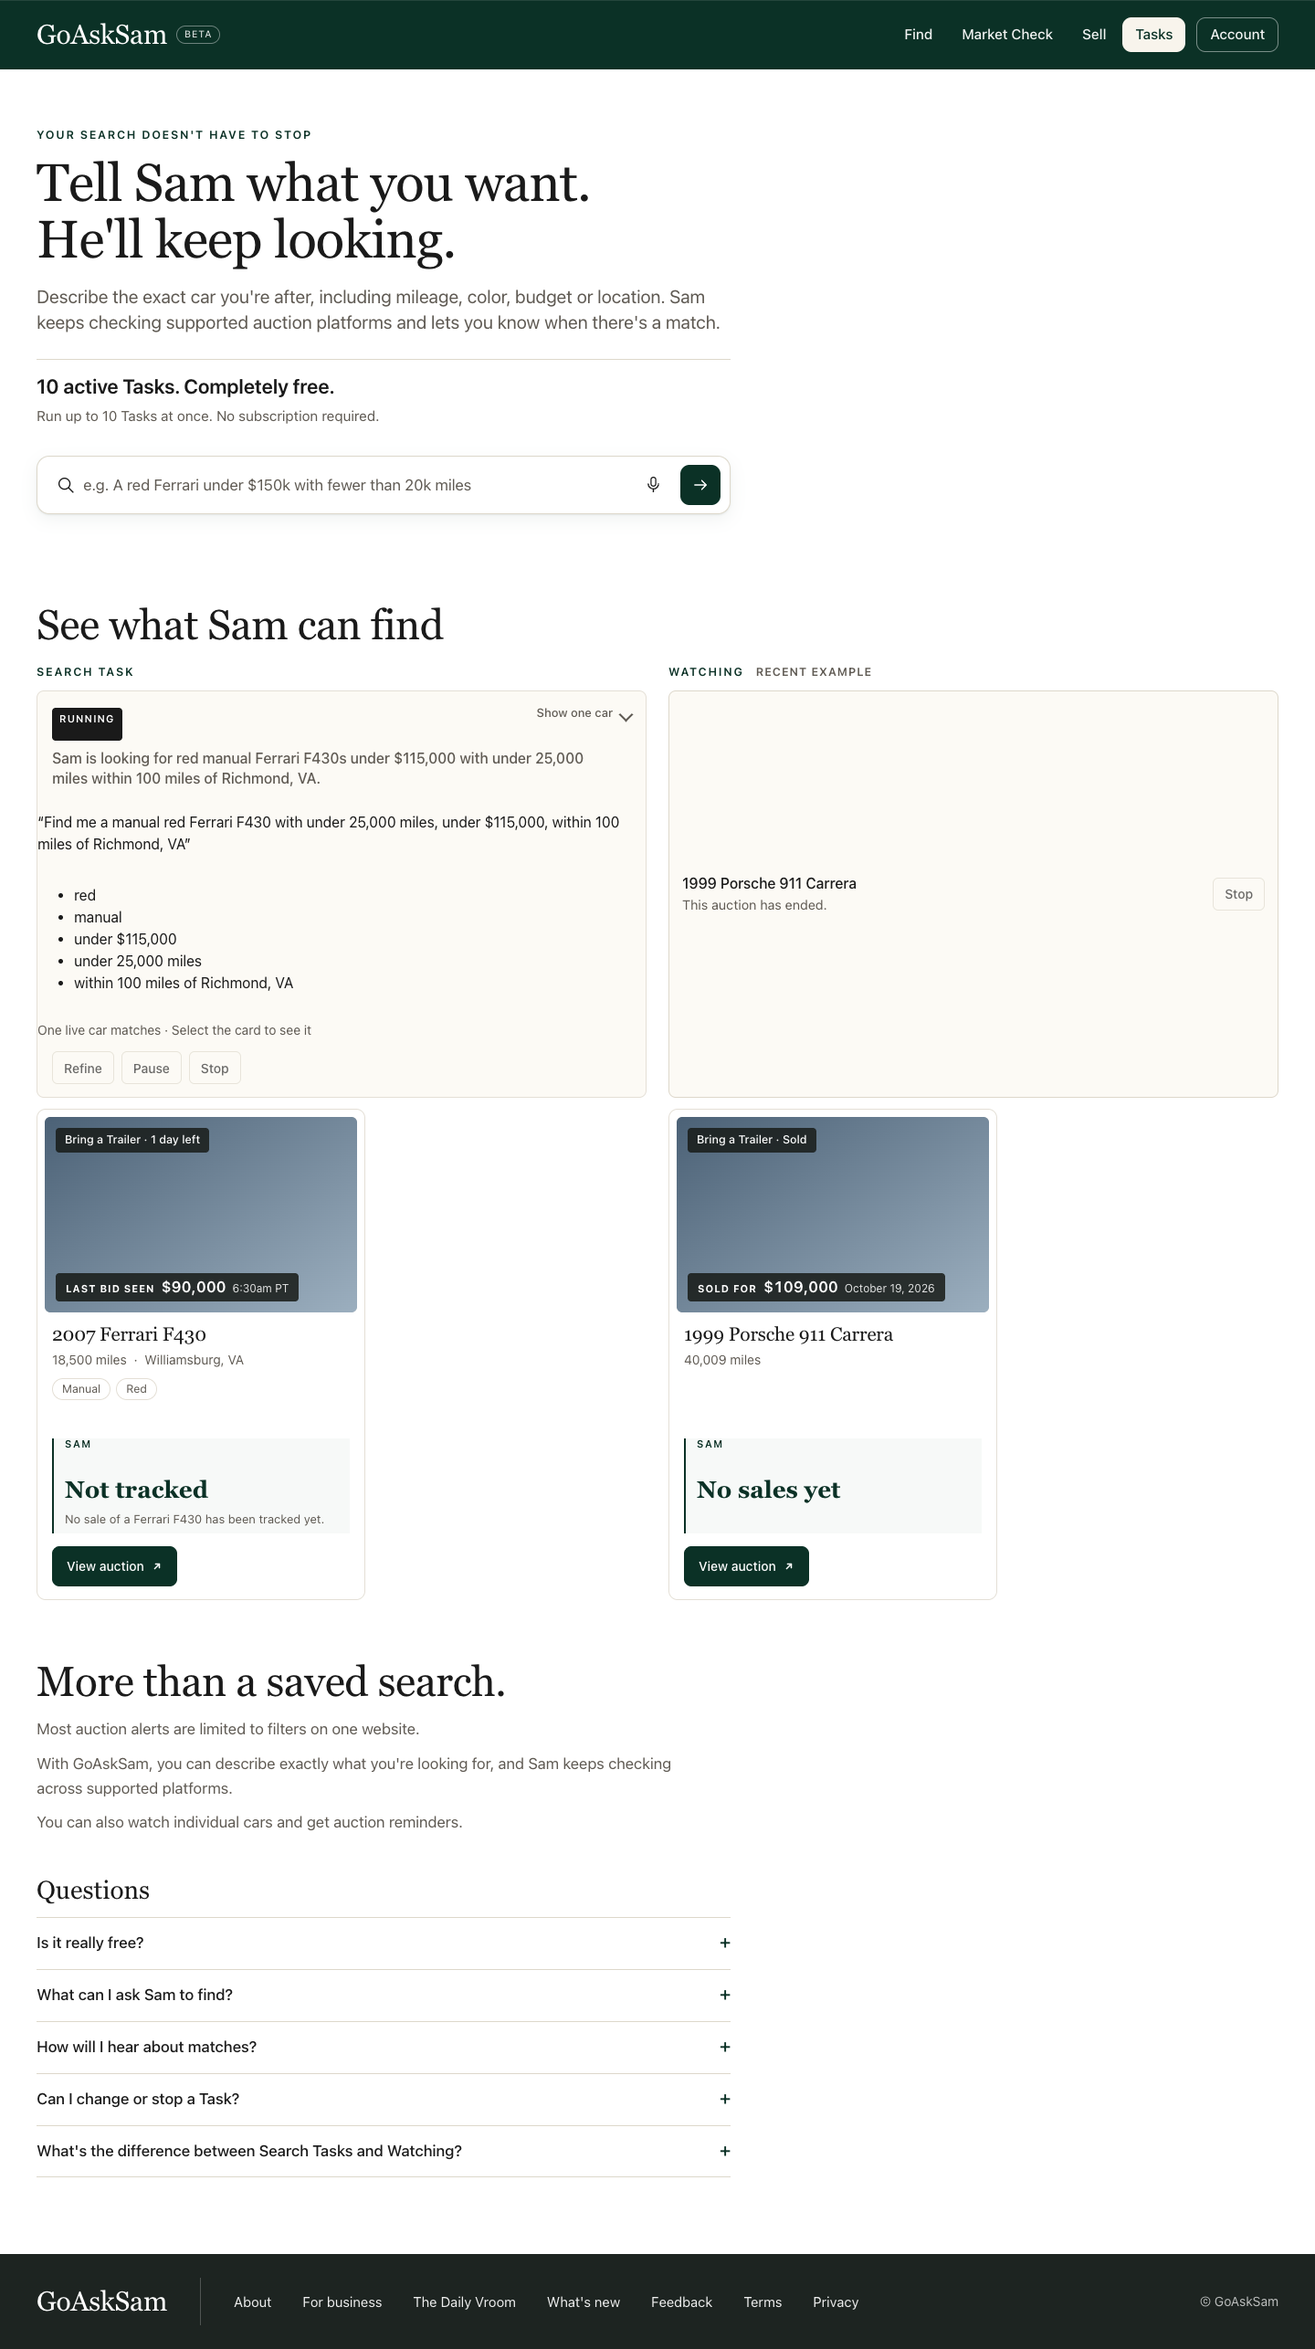
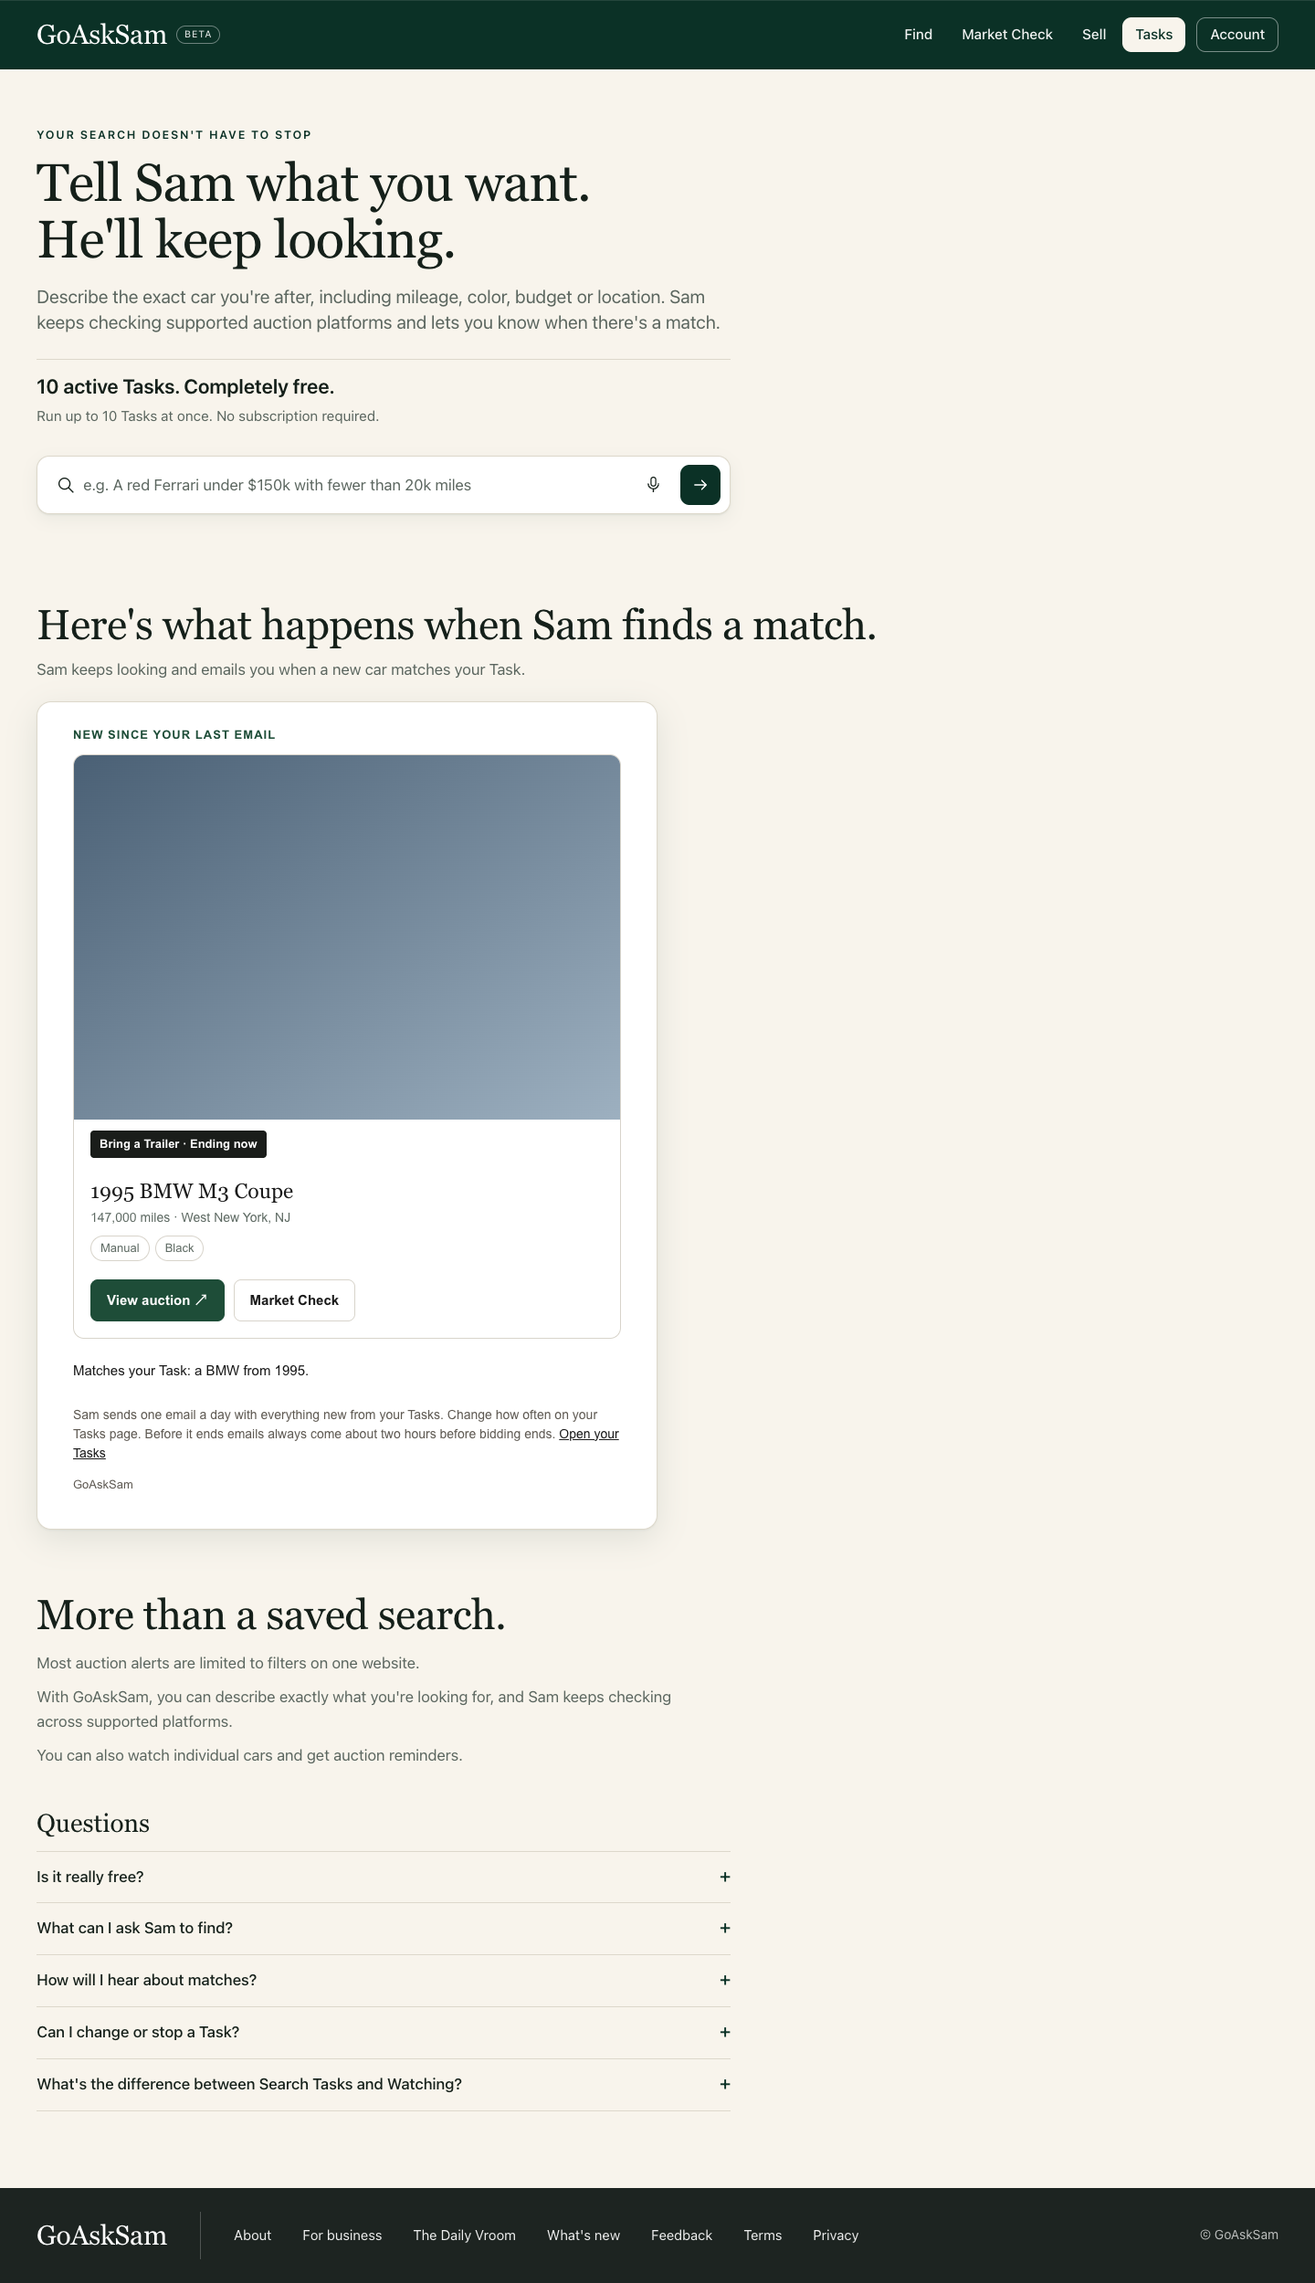
Email preview reads Lane B's tasksEmailExample shape (composeDigest around the block's cardHtml and reason line); Find row filled with Lane B's fallback sales tagged Sold; crewLocalRun runs Lane B's real readers through the real handler; checks and screenshots

diff --git a/lib/preview/tasksPreview.js b/lib/preview/tasksPreview.js
@@ -32,20 +32,29 @@ export const COPY = {
 export const freeLines = max => ({ line: `${max} active ${max === 1 ? "Task" : "Tasks"}. Completely free.`, sub: `Run up to ${max} ${max === 1 ? "Task" : "Tasks"} at once. No subscription required.` });
 export const limitWord = max => freeTasksWords(max).replace(/ active Tasks?$/, "");
 
+// "HERE'S WHAT HAPPENS WHEN SAM FINDS A MATCH" (Sam, Nov 8 2026, final): ONE email, the real Task match email, from a REAL stored match update. THE ENGINE'S SHAPE (Lane B, lib/live/tasksDemo.js tasksEmailExample): { source: "preferred"|"latest", update: { id, at }, subject, why, block } where block is exactly what
+// lib/tasks/tasks.js taskEmailBlocks hands the template for that car (cardHtml, cardText, cardHead, bid ...) plus card, and why is the email's own reason line ("Matches your Task: a BMW from 1995."). The whole email is made by the REAL lib/tasks/digest.js composeDigest (its "New since your last email" heading and its footer)
+// around the Task's section, and the car card inside is the block's own cardHtml from lib/tasks/emailCards.js. When the engine also sends the Task's criteria (task: { summary, filters }) the section is the real lib/tasks/tasks.js taskEmailBody; until it does, the section is the block's card followed by the engine's own reason line, printed as sent.
+// The page types nothing of the email and computes nothing; hidden until the field exists and is complete. Watching is not featured here (it stays in the FAQ).
 const VALUATION = /\b(worth|valuation|valued|estimate[ds]?|appraisal|appraised|undervalued|overvalued|bargain|steal|cheap)\b/i;
 const str = x => typeof x === "string" && x.trim().length > 0;
 export function emailExampleOf(field) {
   const o = field && typeof field === "object" ? field : null; if (!o) return null;
-  const t = o.task && typeof o.task === "object" ? o.task : null; if (!t || !str(t.id) || !str(t.summary) || VALUATION.test(t.summary) || !t.filters || typeof t.filters !== "object") return null;
-  const blocks = Array.isArray(o.blocks) ? o.blocks : []; if (!blocks.length || blocks.length > 3) return null;
-  if (!blocks.every(b => b && typeof b === "object" && str(b.cardHtml) && str(b.cardText) && b.card && typeof b.card === "object" && !VALUATION.test(b.cardText))) return null;
-  return { task: t, blocks, every: str(o.every) ? o.every : "daily" };
+  const b = o.block && typeof o.block === "object" ? o.block : null; if (!b || !str(b.cardHtml) || !str(b.cardText) || VALUATION.test(b.cardText)) return null;
+  if (!str(o.why) || VALUATION.test(o.why)) return null;
+  const t = o.task && typeof o.task === "object" && str(o.task.summary) && !VALUATION.test(o.task.summary) && o.task.filters && typeof o.task.filters === "object" ? o.task : null;
+  return { block: b, why: o.why, subject: str(o.subject) ? o.subject : null, task: t, every: str(o.every) ? o.every : "daily", source: o.source === "latest" ? "latest" : "preferred" };
 }
-// the real email: the Task's section from taskEmailBody, the whole email from composeDigest (a later email: catchUp false, so the heading is "New since your last email")
+// the Task's section of the email: the real taskEmailBody when the engine sent the Task's criteria, else the block's own card and reason line
+export function emailSectionOf(ex) {
+  if (ex.task) return taskEmailBody({ id: "example", ...ex.task }, [ex.block], { section: true });
+  const esc2 = x => String(x).replace(/[&<>"]/g, c => ({ "&": "&amp;", "<": "&lt;", ">": "&gt;", '"': "&quot;" }[c]));
+  return { text: ex.block.cardText + "\n" + ex.why, html: (ex.block.cardHead || "") + ex.block.cardHtml + `<p class="em-why">${esc2(ex.why)}</p>` };
+}
+// the real email: the whole email from composeDigest (a later email: catchUp false, so the heading is "New since your last email")
 export function renderTaskEmail(ex) {
-  const section = taskEmailBody(ex.task, ex.blocks, { section: true }), cars = ex.blocks.length;
-  const mail = composeDigest([{ subject: null, text: section.text, html: section.html, cars, catchUp: false }], { every: ex.every, first: false, stopAll: null });
-  return mail;
+  const section = emailSectionOf(ex);
+  return composeDigest([{ subject: ex.subject, text: section.text, html: section.html, cars: 1, catchUp: false }], { every: ex.every, first: false, stopAll: null });
 }
 export function taskEmailSectionHtml(field) {
   const ex = emailExampleOf(field); if (!ex) return "";
@@ -59,7 +68,7 @@ export const TASKS_CSS = `
 .tk-top .sb{margin-top:20px}
 .em{padding-top:56px;padding-bottom:24px}.em h2{margin:0 0 10px}.em-line{margin:0 0 22px;color:var(--sec);font:400 17px/1.55 var(--sans);max-width:62ch}
 .em-frame{max-width:680px;background:#fff;border:1px solid var(--line);border-radius:16px;box-shadow:0 10px 34px rgba(11,49,38,.10),0 1px 2px rgba(11,49,38,.06);padding:26px 28px;overflow:hidden}
-.em-body{max-width:600px;margin:0 auto;overflow-wrap:anywhere}.em-body img{max-width:100%;height:auto}.em-body table{max-width:100%}
+.em-why{margin:6px 0 0;font:400 15px/1.5 Arial,sans-serif;color:#1A1A1A}.em-body{max-width:600px;margin:0 auto;overflow-wrap:anywhere}.em-body img{max-width:100%;width:100%;max-height:260px;height:auto;object-fit:cover}.em-body table{max-width:100%}
 @media (max-width:640px){.em{padding-top:36px}.em-frame{padding:16px 14px;border-radius:14px}}
 .tk-not{padding-top:44px;padding-bottom:36px}.tk-not h2{margin:0 0 14px}.tk-not p{margin:0 0 10px;color:var(--sec);font:400 17px/1.6 var(--sans);max-width:66ch}.tk-not p:last-child{margin-bottom:0}
 .tk-faq{padding-top:8px;padding-bottom:84px}.tk-faq>*{max-width:760px}.tk-faq h2{margin:0 0 14px}

diff --git a/lib/preview/previewPages.js b/lib/preview/previewPages.js
@@ -229,17 +229,19 @@ export function engineCardOf(item, kind, { now = NaN, allowData = false } = {}) 
   if (kind === "live") return Number.isFinite(Date.parse(c.end_time)) && Date.parse(c.end_time) > now && !c.sold ? c : null;
   const s = c.sold; return s && typeof s === "object" && fxStr(s.price) && fxStr(s.when) && !BAD_WORDS.test(s.price + " " + s.when) ? c : null;
 }
-// THE FIND LANDING ROW (Sam, Nov 8 2026, final): "A few cars currently at auction". Only LIVE cars: a completed sale is not at auction, so the engine's fallback sales are not drawn here (with no live car the section is absent). Each example is the real Find card with the rest of it hidden (CSS): the real
-// photo, the car's own title and the platform tag, and the Sold before label when the engine's card carries one; no bid badge, no SAM block, no range, no spec chips, no See the sales. The whole card is one link to that car's Find result: the engine's findUrl, else the plain Find search for the card's own title.
+// THE FIND LANDING ROW (Sam, Nov 8 2026, final): "A few cars currently at auction". Each example is the real Find card with the rest of it hidden (CSS): the real photo, the car's own title and the platform tag, and the Sold before label when the engine's card carries one; no bid badge, no SAM block, no range, no spec chips,
+// no See the sales. The whole card is one link to that car's Find result: the engine's findUrl, else the plain Find search for the card's own title. THE ROW NEVER GOES EMPTY (Sam: a blank row is worse than a sold car): the live cars first, then, when fewer than three qualify, the engine's fallback sales (Lane B, the same card ended, card.sold = { price, when }) up to three; a sale's tag reads "Sold".
 export function findRowOf(field, opts) {
-  const { cars } = findExamplesPartsOf(field);
-  return cars.map(i => { const c = engineCardOf(i, "live", opts); return c ? { c, live: true, findUrl: findUrlOf(i, c) } : null; }).filter(Boolean).slice(0, 3);
+  const { cars, fallback } = findExamplesPartsOf(field);
+  const live = cars.map(i => { const c = engineCardOf(i, "live", opts); return c ? { c, live: true, findUrl: findUrlOf(i, c) } : null; }).filter(Boolean).slice(0, 3);
+  const sold = fallback.map(i => { const c = engineCardOf(i, "sold", opts); return c ? { c, live: false, findUrl: findUrlOf(i, c) } : null; }).filter(Boolean).slice(0, 3 - live.length);
+  return [...live, ...sold];
 }
 const findUrlOf = (item, c) => typeof item.findUrl === "string" && /^\/(?:find|buy)(?:[?#]|$)/.test(item.findUrl) && !/^\/\//.test(item.findUrl) ? item.findUrl : "/find?q=" + encodeURIComponent(String(c.title));
 const FIND_DRAW = 'var g=document.getElementById("fx-grid"),L=JSON.parse(document.getElementById("fx-data").textContent);if(g&&window.GASCARD){g.innerHTML=L.map(function(o){var t=String(o.card.title).replace(/"/g,"&quot;");return \'<div class="fx-item">\'+window.GASCARD.card(o.card)+\'<a class="fx-open" href="\'+o.findUrl+\'" aria-label="\'+t+\': see it in Find"></a></div>\'}).join("");window.GASCARD.bind();window.GASCARD.stamp();}';
 export function findExamplesHtml(field, opts) {
   const row = findRowOf(field, opts); if (!row.length) return { html: "", scripts: "" };
-  const html = `<section class="fx" aria-label="A few cars currently at auction" data-find-examples="${row.length}"><h2 class="fx-h">A few cars currently at auction</h2><div class="fx-grid cgrid" id="fx-grid"></div><script type="application/json" id="fx-data">${jsonForScript(row.map(r => ({ card: r.c, findUrl: r.findUrl })))}</script></section>`;
+  const html = `<section class="fx" aria-label="A few cars currently at auction" data-find-examples="${row.length}"${row.some(r => !r.live) ? ' data-fallback="' + row.filter(r => !r.live).length + '"' : ""}><h2 class="fx-h">A few cars currently at auction</h2><div class="fx-grid cgrid" id="fx-grid"></div><script type="application/json" id="fx-data">${jsonForScript(row.map(r => ({ card: r.c, findUrl: r.findUrl })))}</script></section>`;
   return { html, scripts: realCardsScripts() + "<script>" + FIND_DRAW + "</script>" };
 }
 

diff --git a/docs/lane-notes.md b/docs/lane-notes.md
@@ -1480,3 +1480,4 @@ Porsche 911S
 - READY C lane-e-find-tasks-final (Lane E, Nov 8 2026, branch lane-e-find-tasks-final off origin/main 0a015de9, NOT pushed; CREW PREVIEWS ONLY; the homepage, search, Tasks, Watching, login and notification behaviour are untouched). Sam's final Find and Tasks changes. TASKS: the two column Search Task and Watching demonstration and its controls (Refine, Pause, Stop) are gone; in its place the heading "Here's what happens when Sam finds a match.", the line "Sam keeps looking and emails you when a new car matches your Task." and ONE compact email in a contained frame (light, subtle shadow, email width, responsive). The email is the REAL Task match email: lib/tasks/tasks.js taskEmailBody for the Task's section and lib/tasks/digest.js composeDigest for the whole email ("New since your last email", photo, details, platform, bid, Sold before, the matched Task line, View auction and Market Check), the car card inside from lib/tasks/emailCards.js; the page calls those functions with the engine's inputs and types nothing. Hidden until the engine field exists and is complete. Hero, free lines, input, More than a saved search and the FAQ (Watching stays there) are unchanged. FIND: headline, input and chips kept; the section is "A few cars currently at auction": each card is the real Find card with the rest hidden (CSS): the real photo, the car's own title, the platform tag and the Sold before label when the card carries one; no bid overlay, SAM block, range, spec chips, See the sales; the whole card is one link to the car's Find result; three across on desktop, stacked on a phone, compact and below the search. A completed sale is not "at auction", so the engine's fallback sales are no longer drawn here (with no live car the row is absent).
 - NEEDED FROM LANE B (Lane E, Nov 8 2026, SHAPES for Sam's final Find and Tasks): (1) tasksEmailExample(env, req) in lib/live/tasksDemo.js (the name the preview reads; crew only inside, null without the signed crew cookie, null when there is no suitable stored update) -> { task, blocks, every } built from a REAL stored update, never typed: task = the stored Task row as taskEmailBody reads it (id, summary "Sam is looking for BMWs from 1995.", filters { make, year_min, year_max, ... }); blocks = what lib/tasks/tasks.js taskEmailBlocks returns for that update's cars, each with its matched car attached as block.card (the engine's matched card, as the real send path attaches it) and bid; every = the Task's cadence word ("daily"). Sam's example is the 1995 BMW M3 Coupe update (Bring a Trailer, 6 days left, LAST BID SEEN $1,000, 147,000 miles, West New York NJ, Cosmos Black Metallic over black, Clean title, Sold before, "Matches your Task: a BMW from 1995."); choose the stored update that is nearest to it and say which. The preview shows the section only when blocks[0].cardHtml and cardText are present (so run taskEmailBlocks with the email card on). Fixture of the exact shape: scripts/tasksFixture.mjs tasksEmailFixture(). (2) findExamplesField: please prefer THREE DIFFERENT PLATFORMS and varied cars (different make, decade and body) across the three live cars; and add findUrl on each item ({ card, findUrl: "/find?q=..." }, that car's normal Find result); without it the preview links to the plain Find search for the card's own title.
 - CLASS (Sam's final changes): any engine fed card or email on a crew preview must be the live component or template, fed an engine object. scripts/previewRealCardCheck.mjs (23, mutants for an own drawn card, the bid overlay or SAM block left showing, a card that is not one link, a big photo, two across, a source that no longer calls the live card or the email template) and scripts/tasksPreviewCheck.mjs section 7 (the email on the page is exactly taskEmailBody + composeDigest output, content, frame width and shadow, a phone, hidden without the field, mutants) fail without the fix; crewWiringCheck (16) and crewLocalRun (12, Lane B's real findExamplesField through the real handler) cover the wiring.
+- READY C lane-e-find-tasks-final REBASED ON lane-b-emailex (Lane E, Nov 8 2026, branch lane-e-find-tasks-final = lane-b-emailex b82faefa + my commit, NOT pushed; CREW PREVIEWS ONLY). The email preview now reads LANE B'S SHAPE, the engine's wins: tasksEmailExample = { source, update: { id, at }, subject, why, block } (block exactly what taskEmailBlocks produces, plus card). The page makes the whole email with the REAL composeDigest ("New since your last email" heading, footer) around the section, the car card inside is block.cardHtml verbatim and the reason line is why, printed as sent. My earlier { task, blocks, every } is gone. When the engine also sends task: { summary, filters } (NOT required; no Task id) the section is the real taskEmailBody and shows "Sam is looking for BMWs from 1995." with the Task's links; NEEDED FROM LANE B, OPTIONAL: add task: { summary, filters } to the answer if Sam wants that line in the email (it is not in your current shape, so the preview shows the card and the reason line only). FIND: the row never goes empty: live cars first, then Lane B's fallback sales up to three, a sale's tag reads "Sold". scripts/crewLocalRun.mjs runs Lane B's REAL findExamplesField and REAL tasksEmailExample (their stand-in worlds are read from engineCardShapeCheck.mjs and tasksEmailExampleCheck.mjs, not copied) through the real api/crewPage.js with the signed crew cookie in Chrome: three Find cards (live, one live plus two sold, three sold) and the real email, 15 assertions. CAUSE (class): each side was checked against a fixture of its own shape, so Sam's pages were empty or wrong; the preview shapes were guessed instead of read from the engine. Every engine fed card or email on a crew preview now reads the engine's shape and is proved by joining the two real sides (crewLocalRun) plus mutants (previewRealCardCheck 27, tasksPreviewCheck 122, crewWiringCheck 16).
